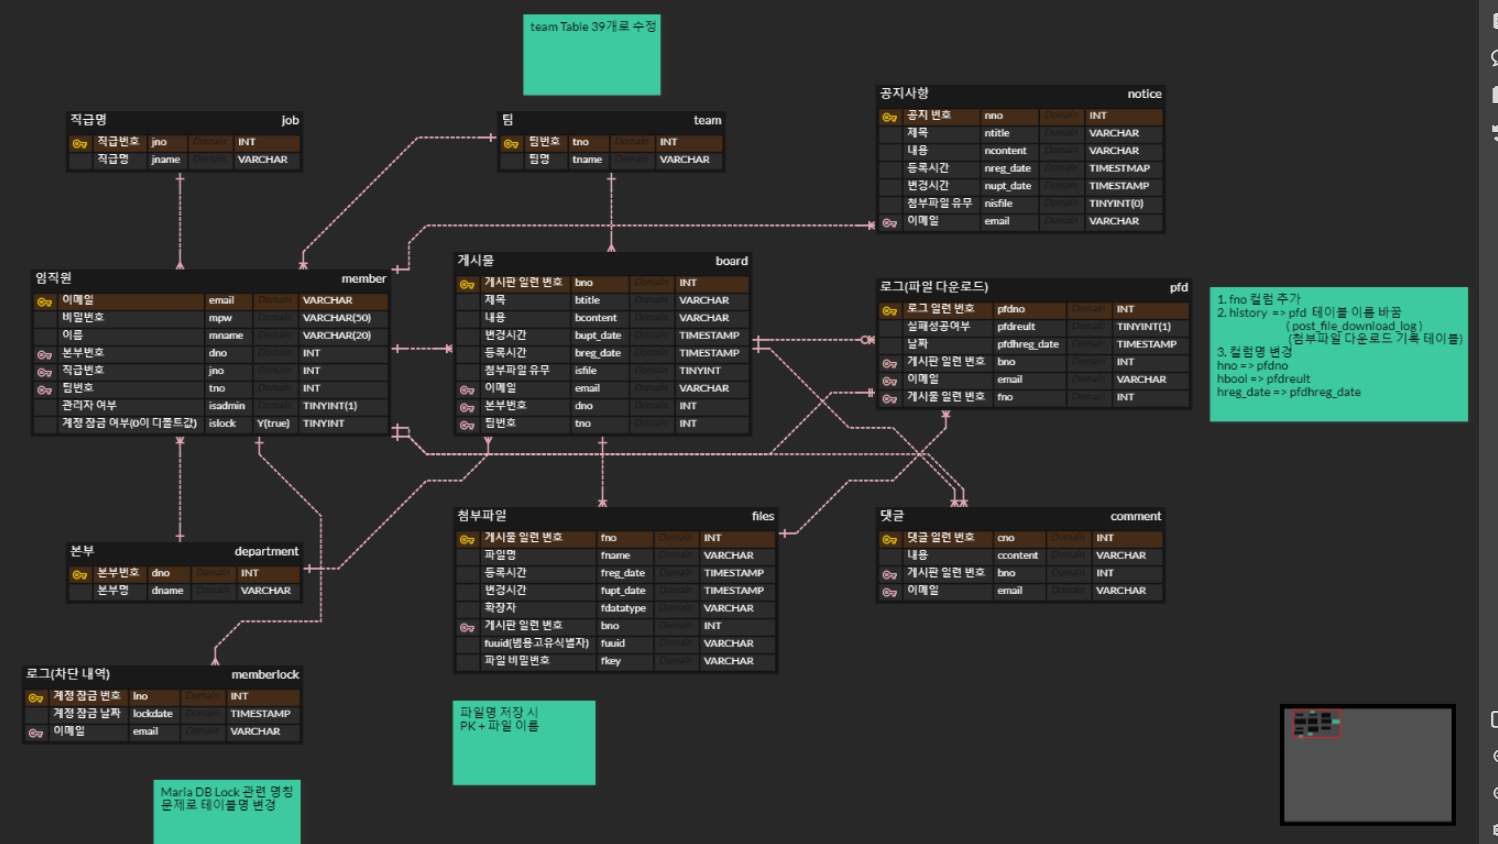
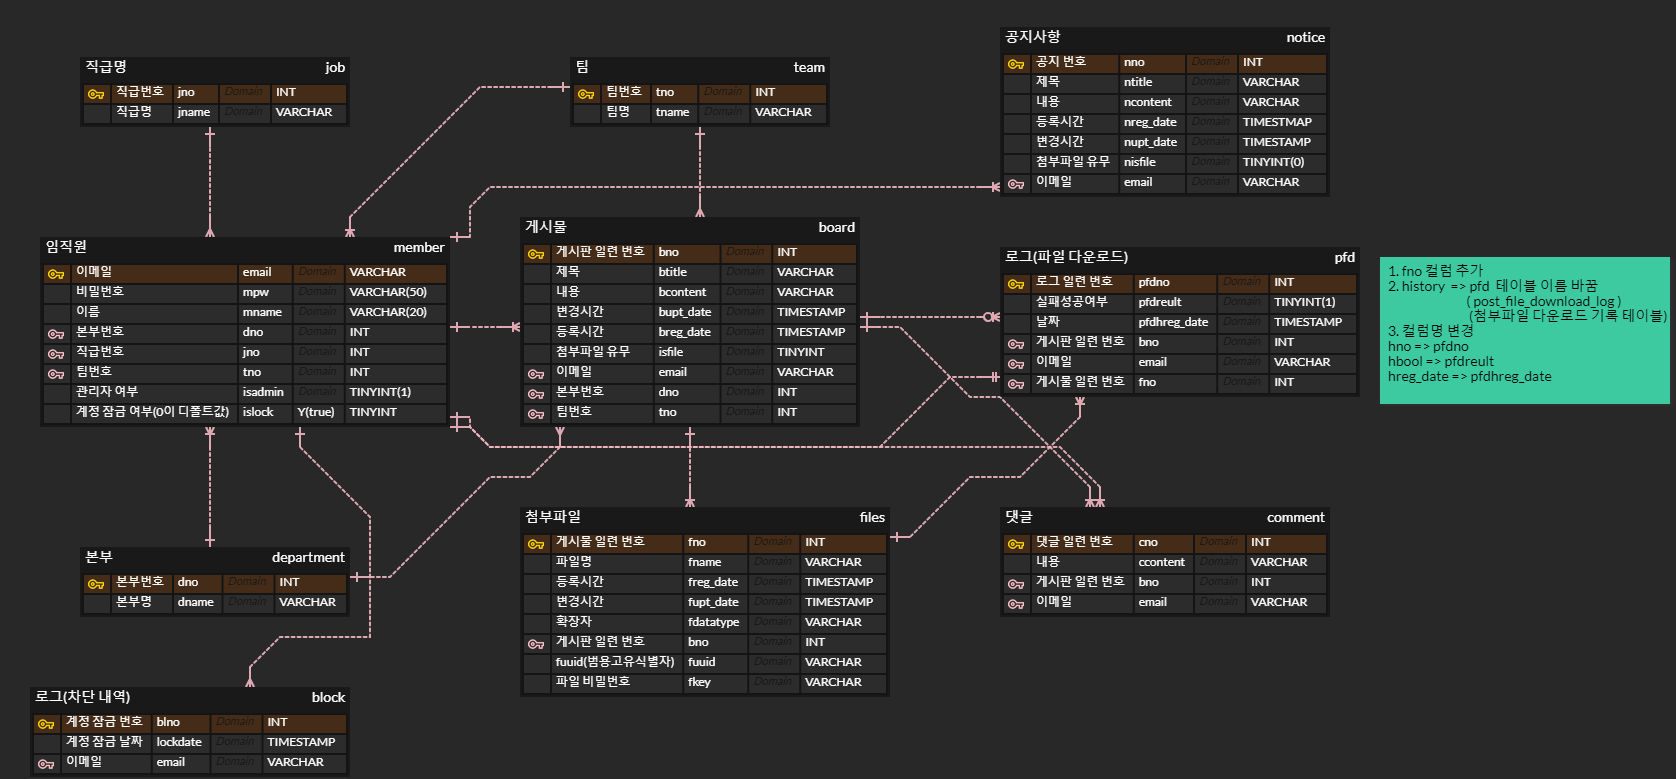
README 수정 및 사진 수정

diff --git a/README.md b/README.md
@@ -9,7 +9,7 @@
 
 ## 1. 개발 배경 및 목적
 
-<img src = "https://github.com/songjeongwoo/metadx/blob/main/src/main/resources/static/res/basicDownload.png?raw=true" width = "100%" height = "200rem">
+<img src = "https://github.com/songjeongwoo/metadx/blob/main/src/main/resources/static/res/basicDownload.PNG?raw=true" width = "600rem" height = "180rem">
 
 #### AS-IS
 
@@ -26,8 +26,10 @@
 ## 2. 기능
 
 #### 서비스 주요 기능
+
 ##### 1) 파일 업/다운로드 시
 > - 파일 업로드 시 비밀번호 입력을 받아 파일의 비트를 변조하는 방식으로 사내 문서의 기밀 유지 가능
+> - 파일 업로드시 메인 서버에 uuid_파일명.dat 파일로 저장됨
 > - 캡챠를 이용하여 실제 사용자인지 판별
 > - 해당 파일 관련 로그(시간, 사용자 정보 등)를 저장하여 문서 외부 유출 관리
 
@@ -36,11 +38,11 @@
 > - 파일 비밀번호 인증 3회 실패시 다운로드 권한 제한
 
 ##### 3) 데이터베이스
-> - 트리거 생성 : member 테이블에 isLock 컬럼 변경시 block 테이블에 등록
+> - 트리거 생성 : 인증을 3회 실패한 계정의 경우 해당 계정이 잠기면서 잠금 내역을 자동으로 DB에 저장
 > - 파일 업로드 : *.txt , *.exe 파일 업로드 제한
 
 ##### 4) 메일 인증(SMTP)
-> - 회원가입 시 이메일 인증을 통해 보안 강화
+> - 회원가입, 비밀번호 찾기 시 이메일 인증을 통해 보안 강화
 
 ##### 5) 게시판 CRUD(등록, 조회, 수정, 삭제)
 > - 게시판 페이지 페이징
@@ -50,20 +52,23 @@
 > - 월별 파일 다운로드, 월별 계정 차단 통계
 > - 계정 잠금 해제 기능
 
+##### 7) 로그인
+> - 사용자 권한에 따른 접근 권한 설정
 
-## 3. UI/UX
-#### 관리자 통계 페이지
-# <img src = "https://github.com/songjeongwoo/metadx/blob/main/src/main/resources/static/res/통계페이지.png?raw=true" width = "100%" height = "500rem" >
+##### 8) 캡챠 인증
+> - 숫자, 글꼴, 속성들을 랜덤으로 이미지를 생성하여 사용자가 로봇인지 사람인지 판별 할 수 있게 함<br>
+>   예시)
+# <img src = "https://github.com/songjeongwoo/metadx/blob/main/src/main/resources/static/res/captchaImage.png?raw=true" width = "500rem" height = "400rem" >
 
-## 4. ERD
-# <img src = "https://github.com/songjeongwoo/metadx/blob/main/src/main/resources/static/res/ERD.png?raw=true" width = "100%" height = "500rem" >
+## 3. ERD
+# <img src = "https://github.com/songjeongwoo/metadx/blob/main/src/main/resources/static/res/ERD.png?raw=true" width = "900rem" height = "450rem" >
 
-## 5. 시스템 구성도
-# <img src = "https://github.com/songjeongwoo/metadx/blob/main/src/main/resources/static/res/시스템구성도.png?raw=true" width = "100%" height = "500rem" >
+## 4. 시스템 구성도
+# <img src = "https://github.com/songjeongwoo/metadx/blob/main/src/main/resources/static/res/%EC%8B%9C%EC%8A%A4%ED%85%9C%EA%B5%AC%EC%84%B1%EB%8F%84.PNG?raw=true" width = "900rem" height = "450rem" >
 
-## 6. 개발 일정
-# <img src = "https://github.com/songjeongwoo/metadx/blob/main/src/main/resources/static/res/개발일정.png?raw=true" width = "100%" height = "500rem" >
+## 5. 개발 일정
+# <img src = "https://github.com/songjeongwoo/metadx/blob/main/src/main/resources/static/res/%EA%B0%9C%EB%B0%9C%EC%9D%BC%EC%A0%95.PNG?raw=true" width = "900rem" height = "450rem" >
 
-## 7. 사용 기술
-# <img src = "https://github.com/songjeongwoo/metadx/blob/main/src/main/resources/static/res/사용기술.png?raw=true" width = "100%" height = "500rem" >
+## 6. 사용 기술
+# <img src = "https://github.com/songjeongwoo/metadx/blob/main/src/main/resources/static/res/%EC%82%AC%EC%9A%A9%EA%B8%B0%EC%88%A0.PNG?raw=true" width = "900rem" height = "450rem" >
 
